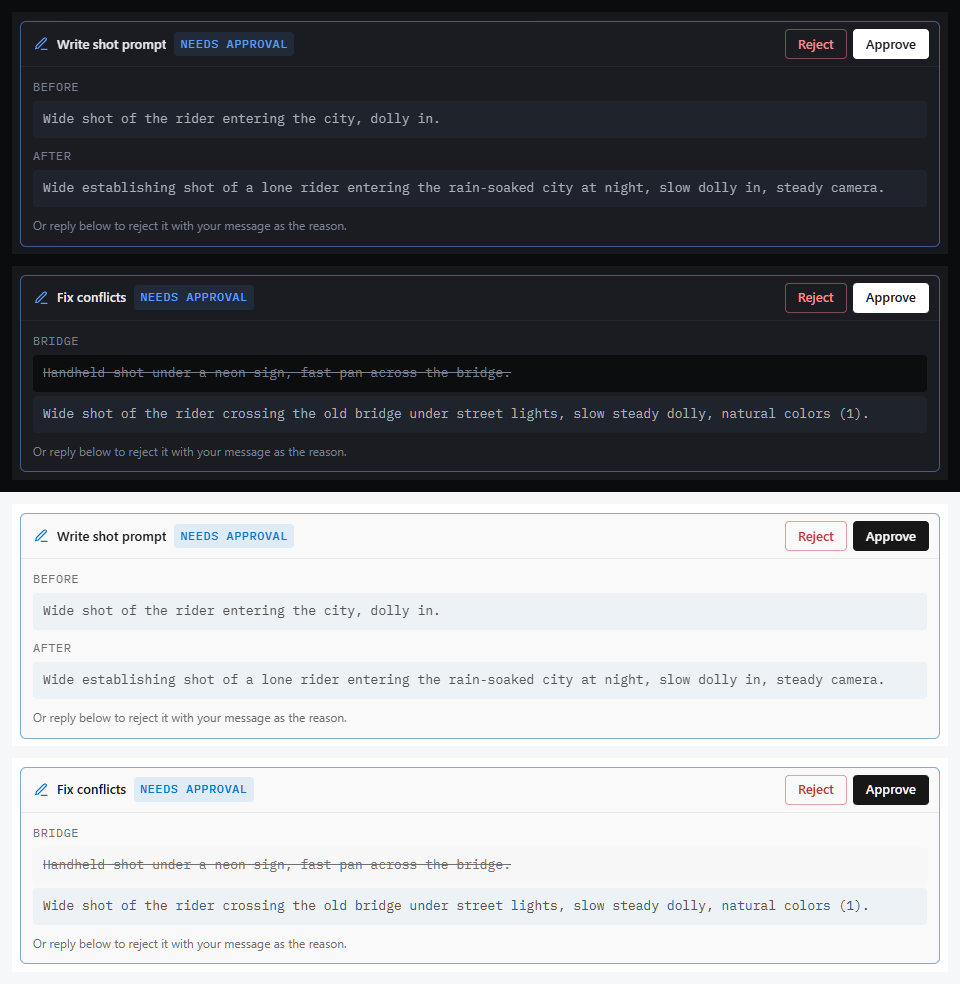
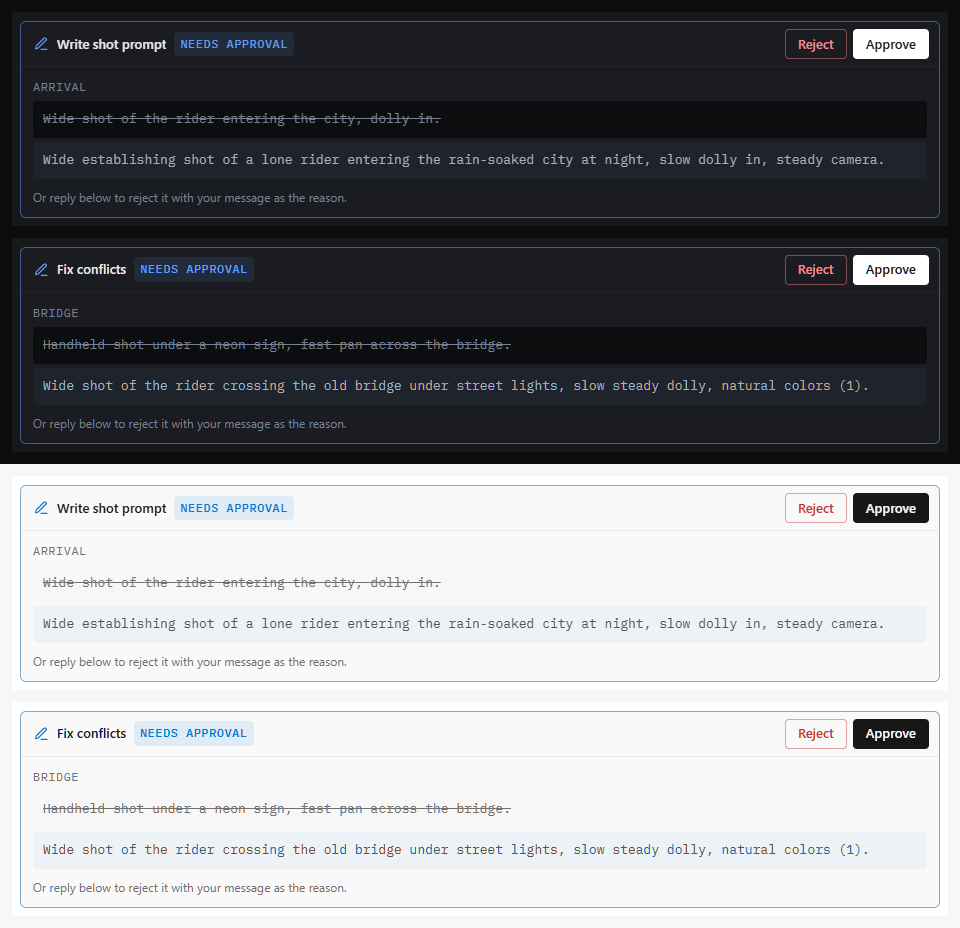
Refresh the approval screenshot for the single-block write preview

diff --git a/content/plugins/marketplace/video-producer/docs/screenshots/README.md b/content/plugins/marketplace/video-producer/docs/screenshots/README.md
@@ -99,5 +99,5 @@ The real video is also visible in the thumbnails of `real-take.png` and in `dire
 
 | Image | What it shows |
 |---|---|
-| [assistant-approval](assistant-approval.png) | 960 x 984. The dark theme on top and the light theme below (the cards are 920 px wide, so they are stacked instead of side by side). Each theme shows two approval cards of the host, both of the "text edit" kind. **Write shot prompt**: "Before" is the current prompt of the shot "Arrival", "After" the prompt the assistant proposes; nothing is saved until "Approve". **Fix conflicts**: one block per rewritten shot; the current prompt of "Bridge" (neon sign, fast pan, in conflict with the global direction "No neon, natural colors, steady camera") is struck through above its rewrite, and one approval applies every rewrite in a single saved version. "Reject" opens an optional reason field. The card labels ("Before", "After", "Needs approval") are written by the host and the tool, in English whatever the language of the page. |
+| [assistant-approval](assistant-approval.png) | 960 x 928. The dark theme on top and the light theme below (the cards are 920 px wide, so they are stacked instead of side by side). Each theme shows two approval cards of the host, both of the "text edit" kind, each with one block per shot labelled with the shot: the current prompt struck through above the prompt the assistant proposes. **Write shot prompt**: the shot "Arrival"; nothing is saved until "Approve", and the host refuses the confirmation if the prompt changed while the card was open. **Fix conflicts**: the current prompt of "Bridge" (neon sign, fast pan, in conflict with the global direction "No neon, natural colors, steady camera") above its rewrite, and one approval applies every rewrite in a single saved version. "Reject" opens an optional reason field. The card labels ("Needs approval", the shot names) are written by the host and the tool, in English whatever the language of the page. |
 | [assistant-continuity](assistant-continuity.png) | 648 x 904. The Direction tab of the Director dock after the assistant ran its continuity check, dark theme on the left and light theme on the right. Above, the page's own box "To check · 2" (the two conflicts between the prompt of "Old bridge" and the global direction); below, the assistant's list "To check" with the time of the check and a dismiss button. It groups the points by seam ("Arrival → Old bridge", "Old bridge → Gate"): the two conflicts again, the camera move that changes at the cut, the shot without a prompt and the FL2VA shot without a first frame, each with a one-line way to fix it. A point measured on the shots' images by the page (brightness, color temperature, identity) carries a "Measured" badge; none was measurable here because the project has no media. The ghost button "Ask the assistant to check continuity" under the list opens the chat. The dock was captured in a 1440 x 1560 window so that the whole list and the button fit. |
